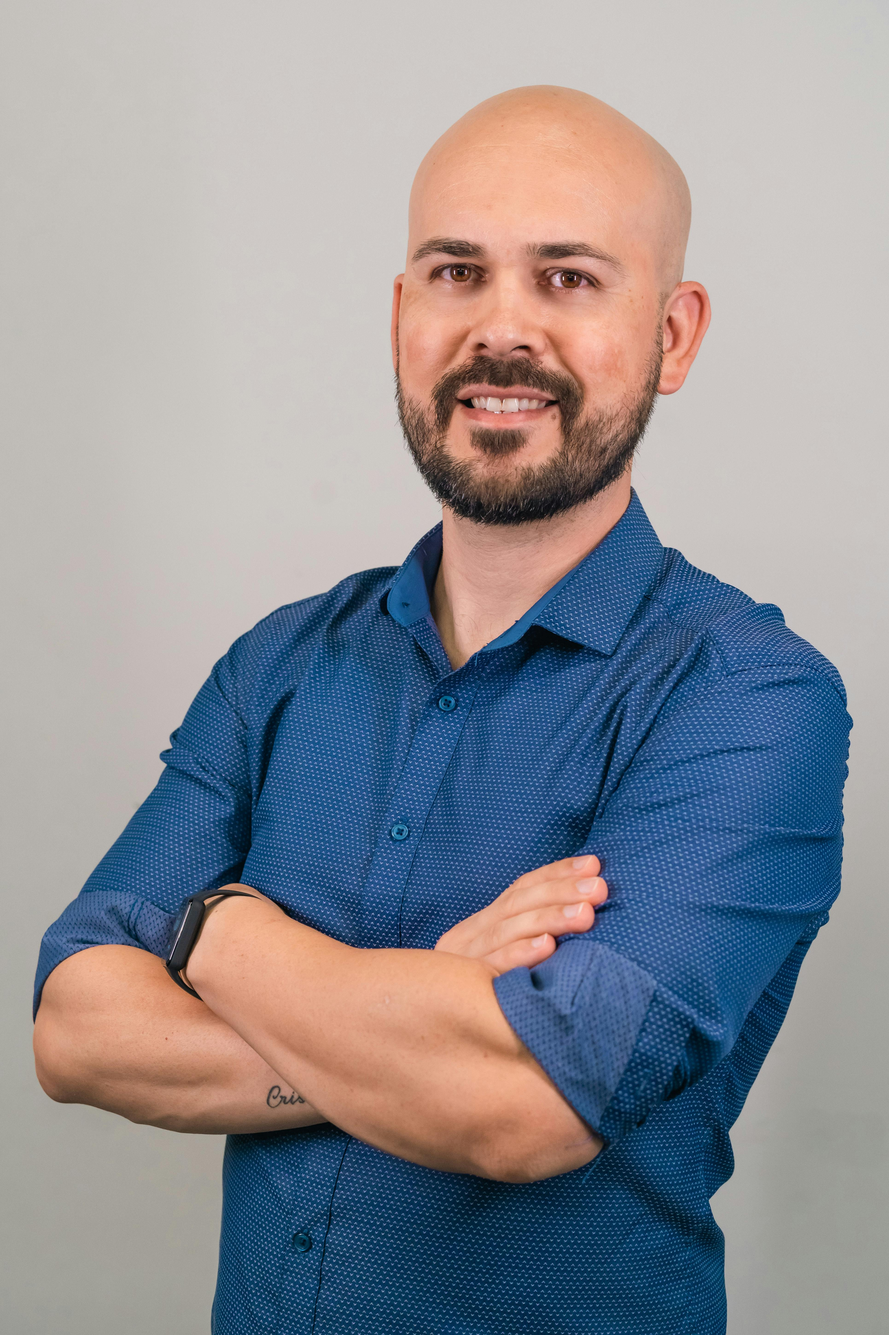
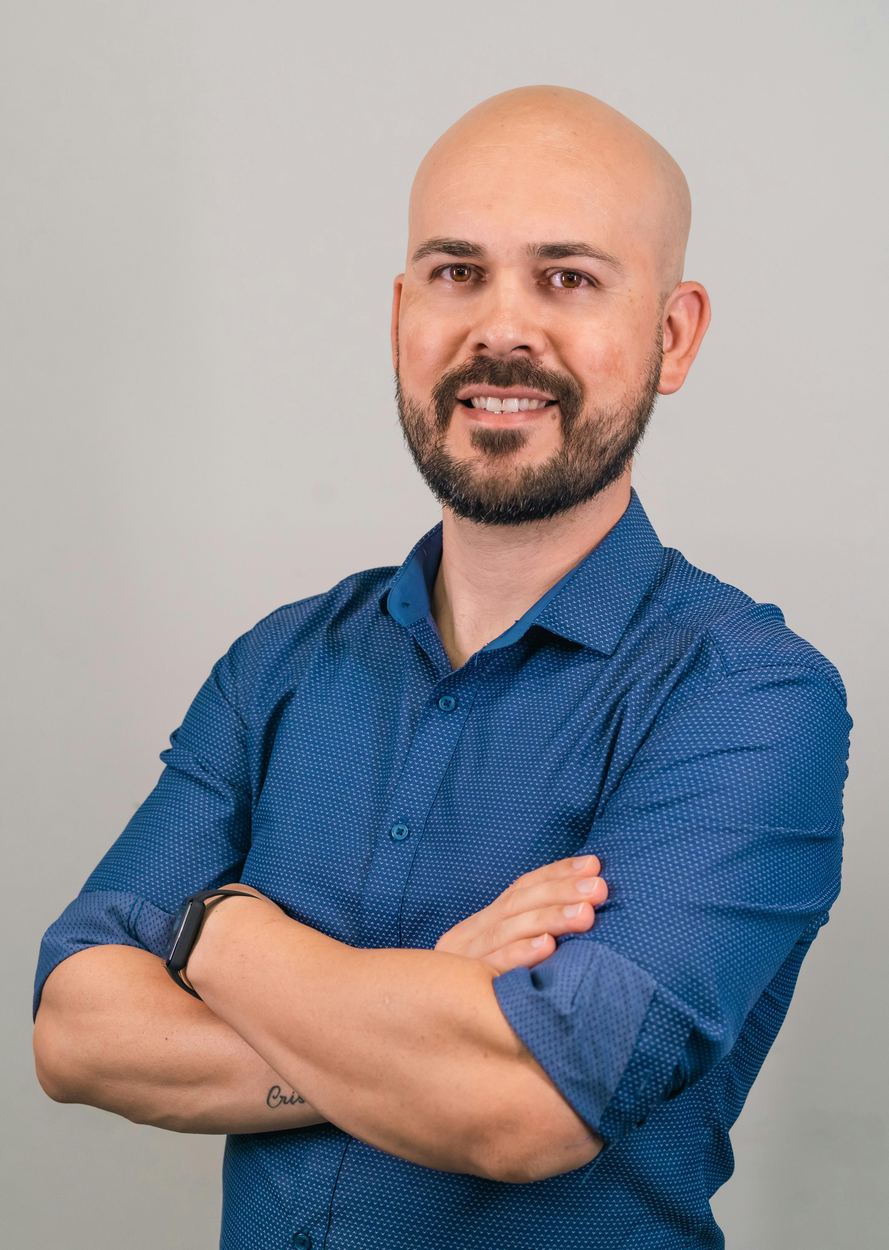
improved stock photos

diff --git a/app/studypage2/page.tsx b/app/studypage2/page.tsx
@@ -525,7 +525,7 @@ export default function StudyPage2() {
 						<FadeIn direction="up" delay={200}>
 							<div className="relative h-[350px] lg:h-[550px] w-full rounded-[2rem] overflow-hidden shadow-2xl border-4 border-white">
 								<Image
-									src="/massage-hero-new.png"
+									src={studyGroup === "B" ? "/stock-photos/massage-hero-stock.jpg" : "/massage-hero-new.png"}
 									alt="Massage therapy session"
 									fill
 									priority
